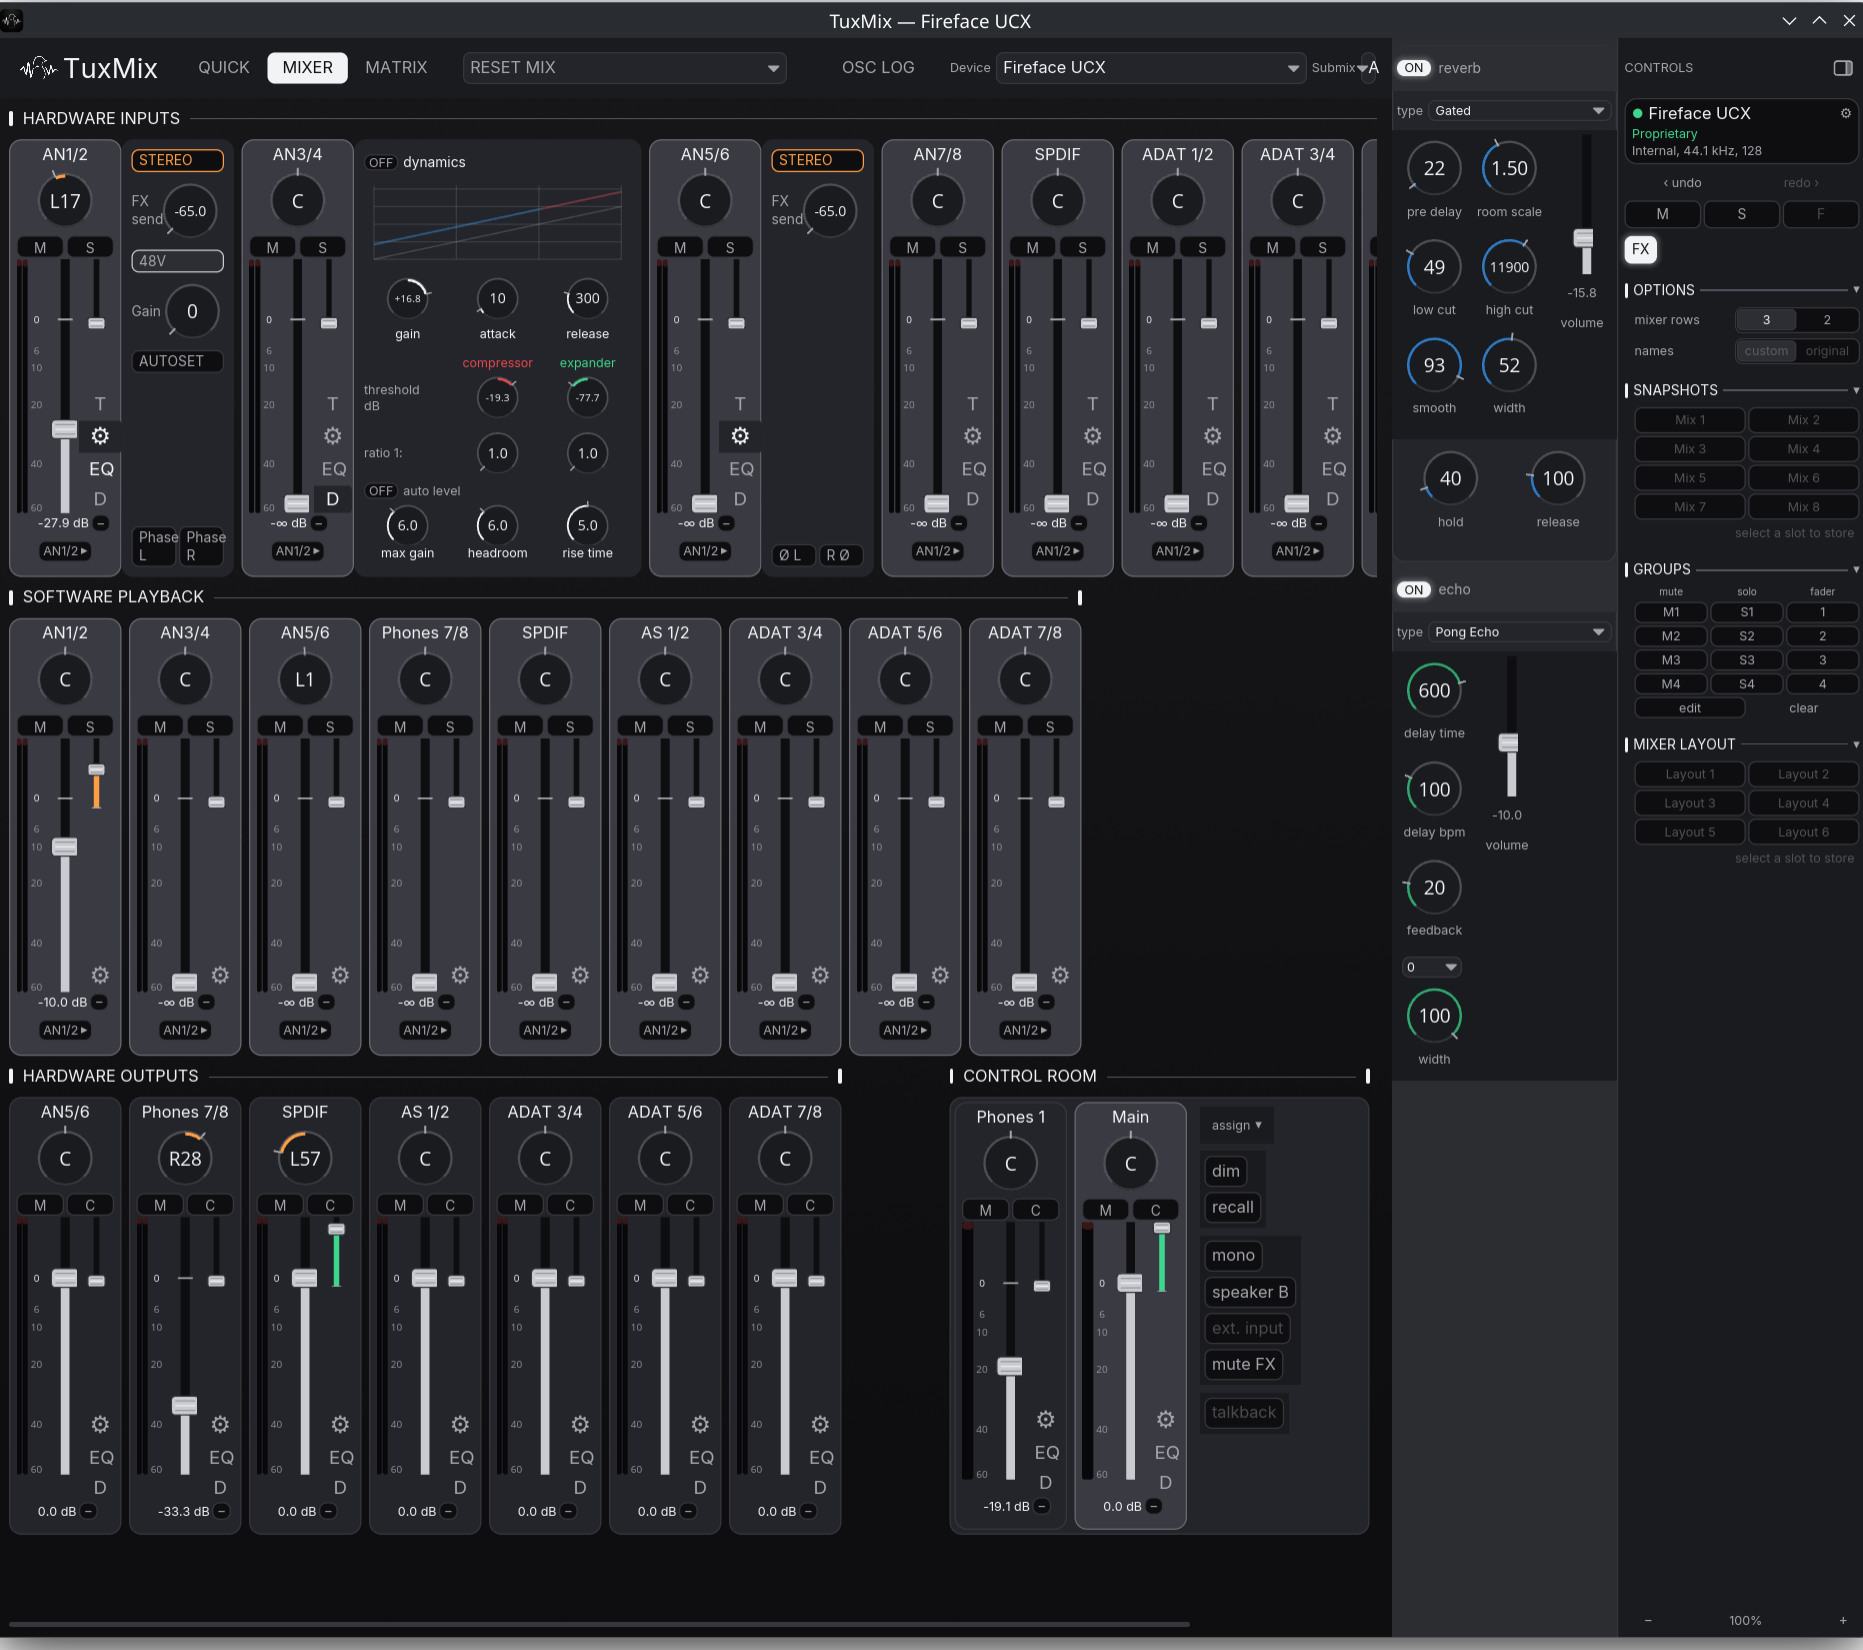
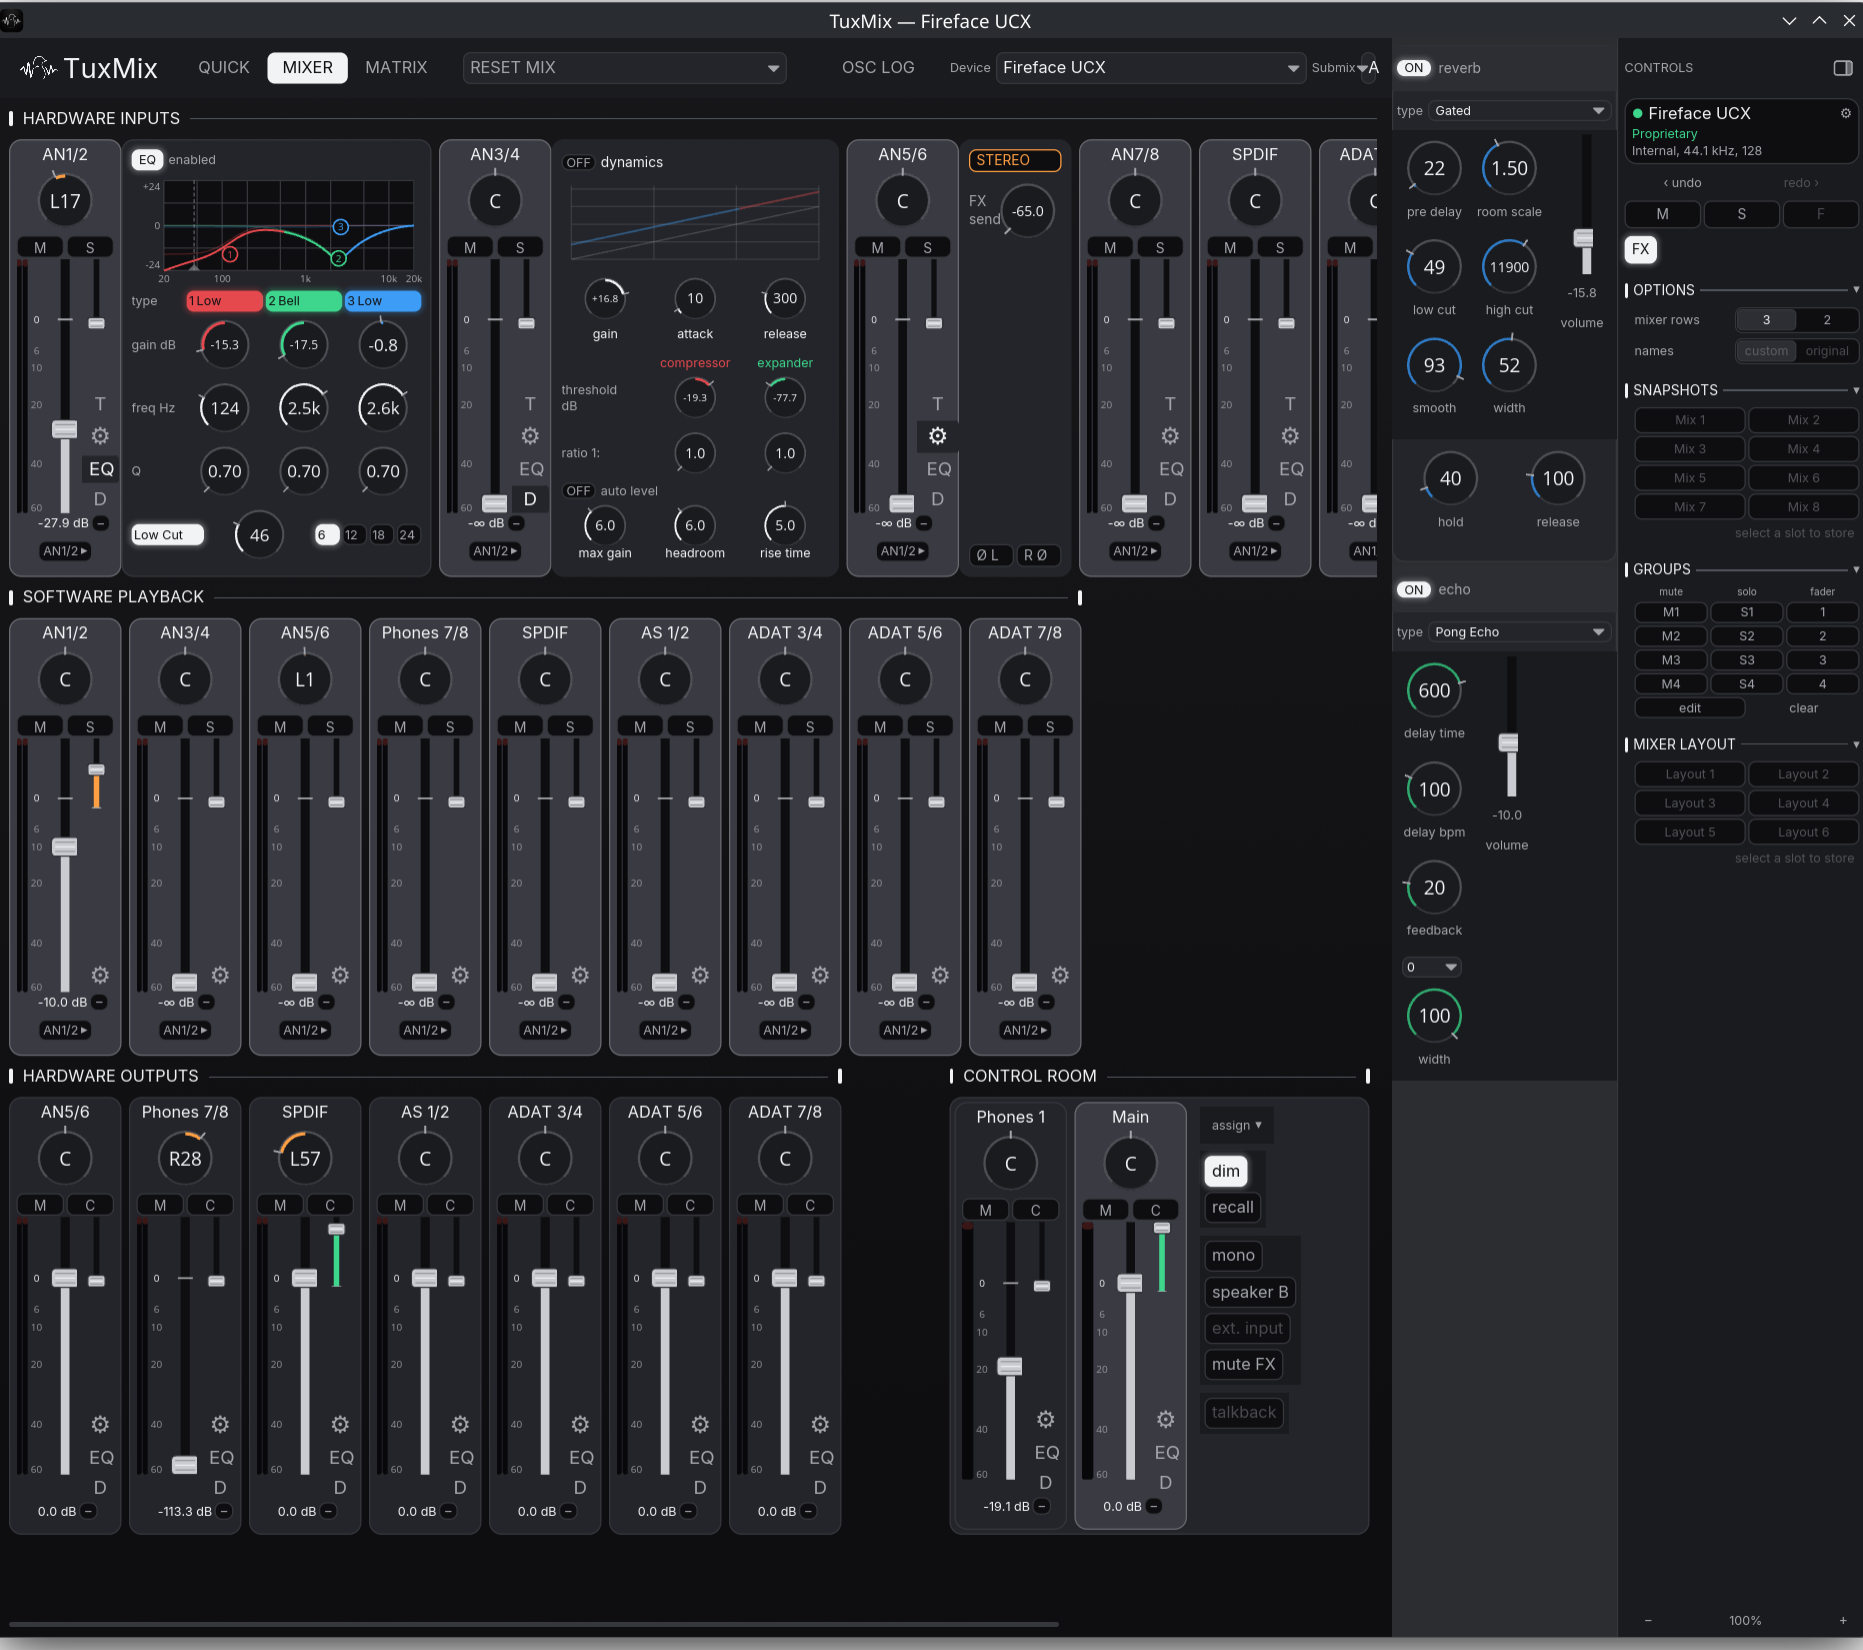
readme: the mixer screenshot with the EQ and dynamics panels
tui: label the low-pass EQ band type, which the workspace build requires

Changed region(s): [[0.0623, 0.0618, 0.7472, 0.3709], [0.6227, 0.68, 0.6849, 0.7418], [0.0934, 0.8345, 0.1245, 0.9273]]

diff --git a/ui/tuxmix/tuxmix-tui/src/main.rs b/ui/tuxmix/tuxmix-tui/src/main.rs
@@ -1877,6 +1877,7 @@ fn eq_band_type_label(t: EqBandType) -> &'static str {
         EqBandType::Bell => "Bell",
         EqBandType::LowShelf => "Low Shelf",
         EqBandType::HighShelf => "High Shelf",
+        EqBandType::LowPass => "Low Pass",
     }
 }
 

diff --git a/README.md b/README.md
@@ -8,7 +8,7 @@ Ismaïl Bahloul — his Babyface Pro FS mixer — and extends it into a full
 control surface for the Fireface UC family.  His commit history is preserved
 in this repository.
 
-![The TuxMix mixer and Control Room driving a Fireface UCX, with the channel dynamics, sends and the reverb and echo panels open](ui/tuxmix/docs/screenshots/mixer-ucx.png)
+![The TuxMix mixer and Control Room driving a Fireface UCX, with the EQ and dynamics panels, sends, and the reverb and echo panels open](ui/tuxmix/docs/screenshots/mixer-ucx.png)
 
 ## What this tree adds
 
